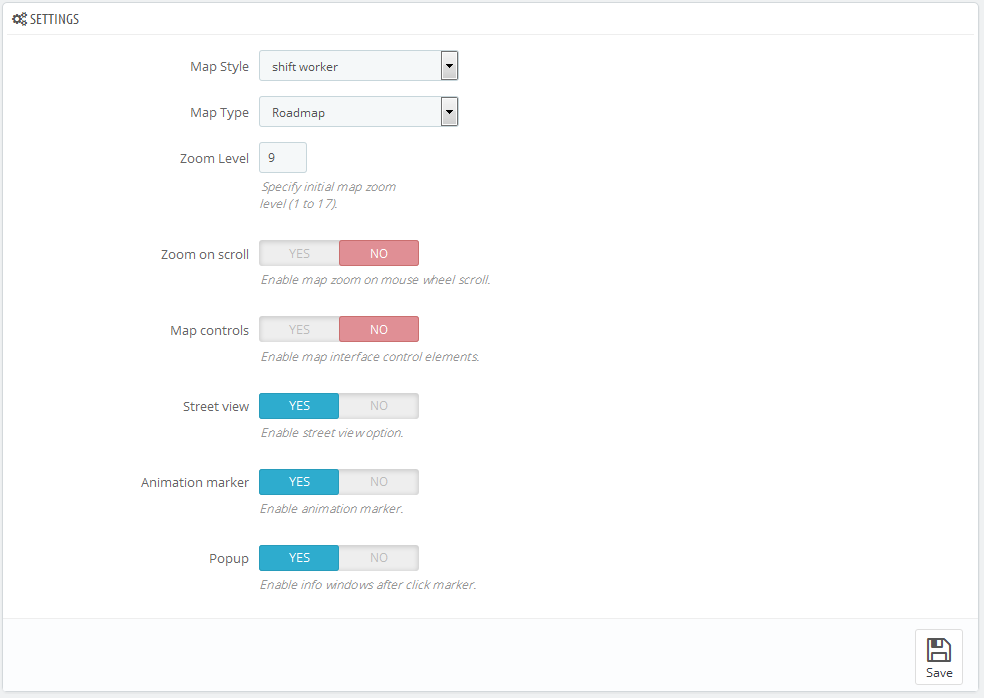
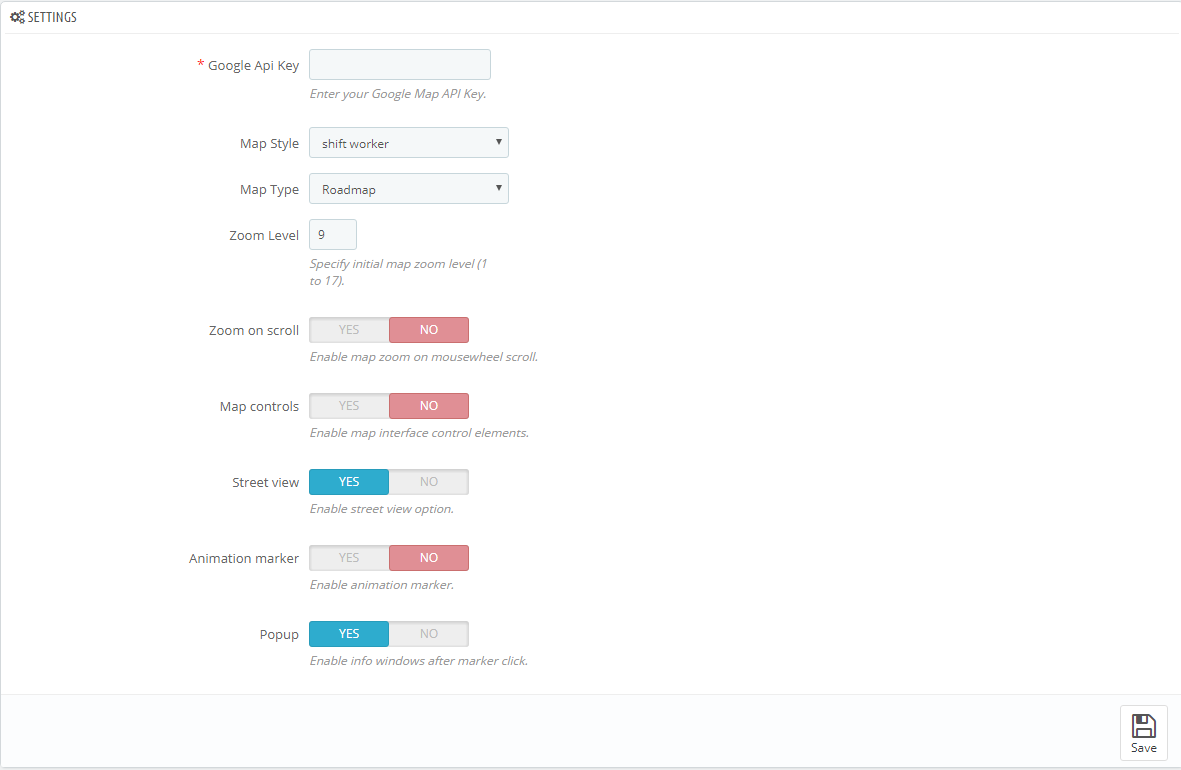
EDIT: TM Google Map module documentation

diff --git a/sections/custom-modules/en/tmgooglemap115.php b/sections/custom-modules/en/tmgooglemap115.php
@@ -5,7 +5,7 @@
 <h5>Module settings</h5>
 <p>After installing the module, you can add stores to the map. After pressing the 'Add new store' button (1), you'll be redirected to the 'Store contacts' tab, where you can edit your stores.</p>
 <p class="img-polaroid"><img src="img/tmgooglemap115-1.png" alt="" /></p>
-<p>To add a new store, press the 'Add new' button.</p>
+<p>To add a new store, press the 'Add new item' button.</p>
 <p class="img-polaroid"><img src="img/tmgooglemap115-2.png" alt="" /></p>
 <ul class="marked-list">
     <li><strong>Select a store</strong> - select the store that you want to add to the map.</li>
@@ -16,6 +16,7 @@
 <h5>Google Map display settings</h5>
 <p class="img-polaroid"><img src="img/tmgooglemap115-3.png" alt="" /></p>
 <ul class="marked-list">
+    <li><strong>Google Api Key</strong> - enter your Google Map API Key.</li>
     <li><strong>Map Style</strong> - select the map display style.</li>
     <li><strong>Map Type</strong> - select the map display type.</li>
     <li><strong>Zoom Level</strong> - specify the initial level of the map zoom (from 1 to 17).</li>
